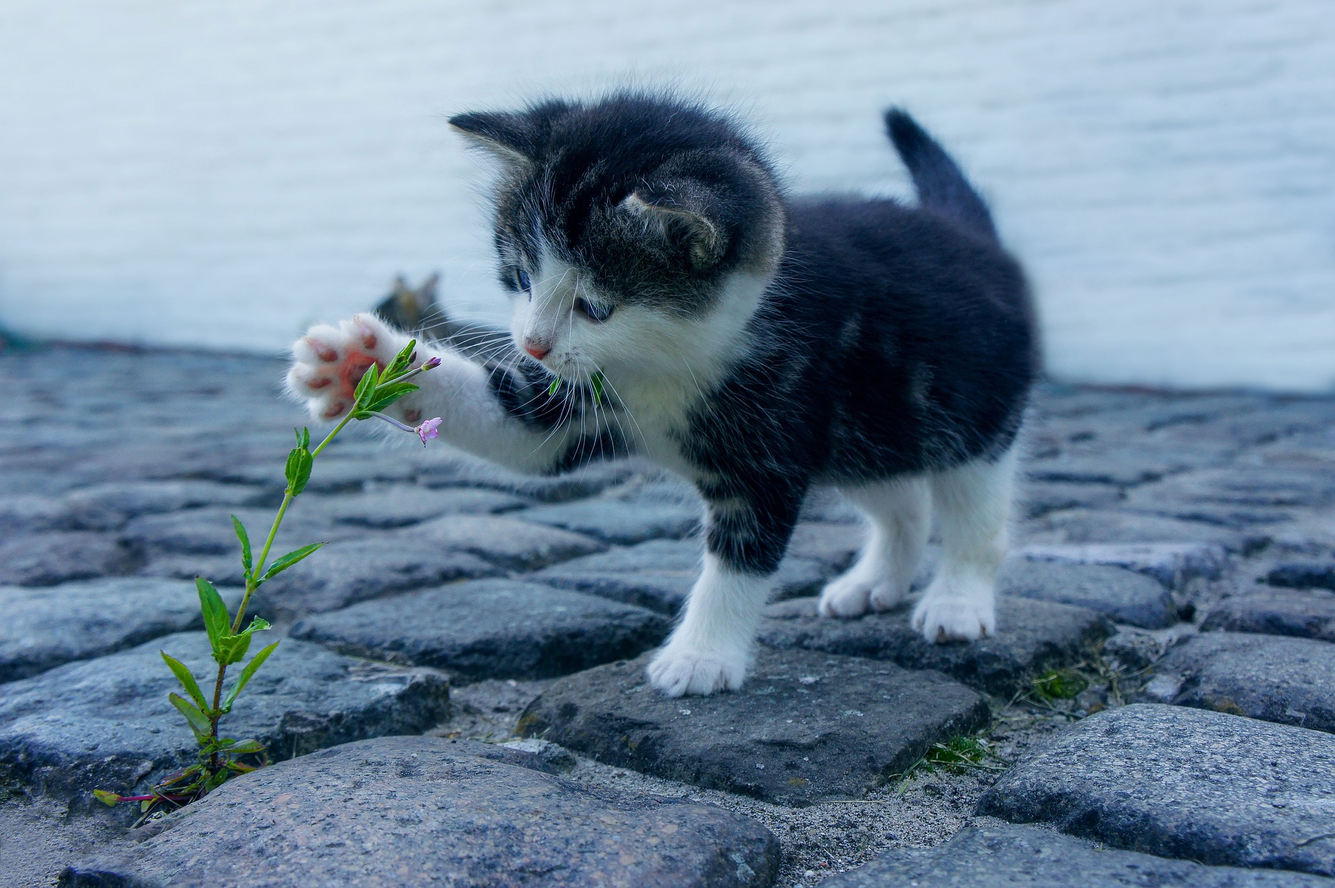
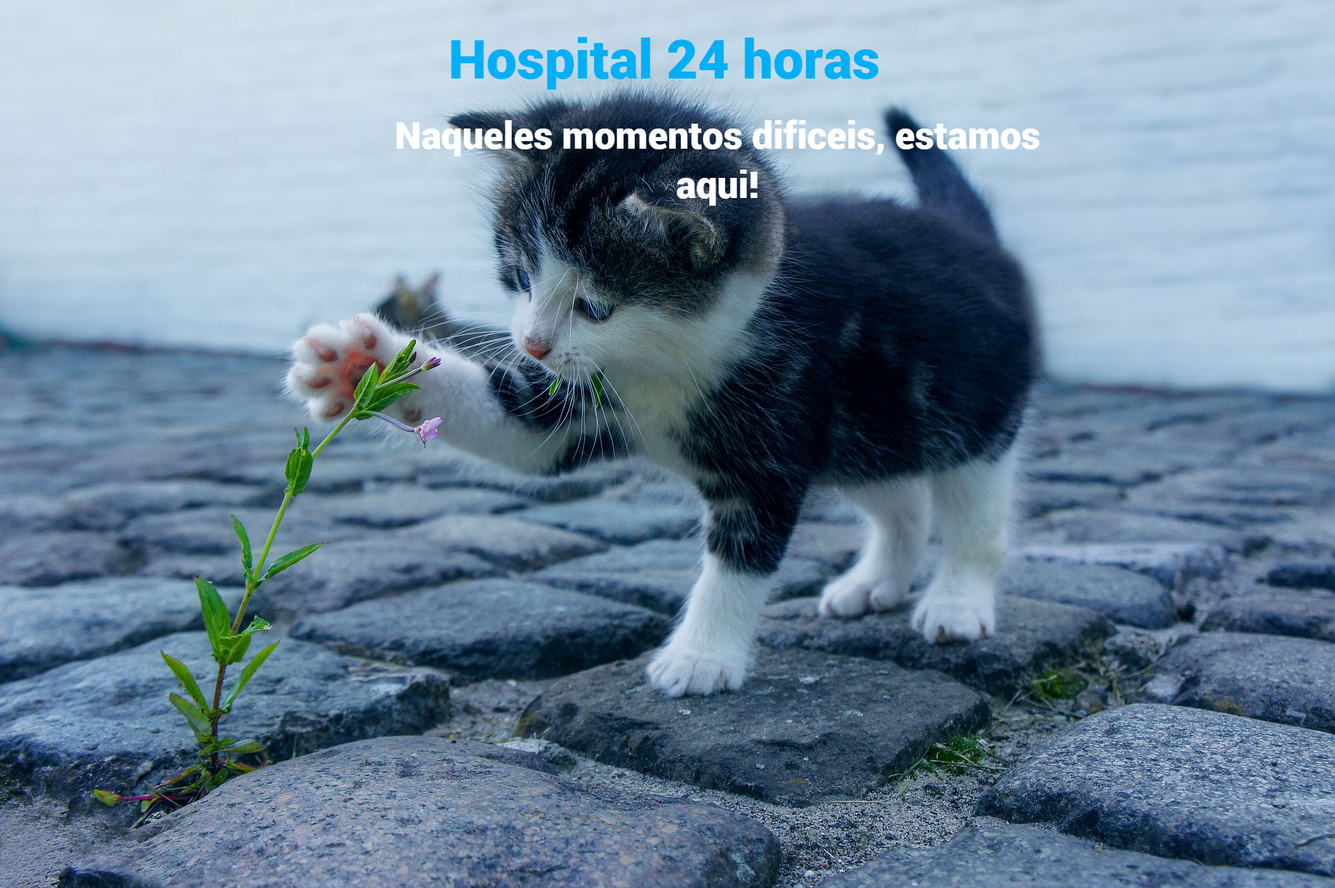
Estilizando projeto

Changed region(s): [[0.2812, 0.1221, 0.7812, 0.2441], [0.3125, 0.0305, 0.6562, 0.0915]]

diff --git a/index.html b/index.html
@@ -30,30 +30,34 @@
     <main id="principal">
         <hr>
         <section id="banner-container">
-            <div class="banner active">
-                <h2>Consultas e Vacinas</h2>
-                <p>
-                Acompanhamento veterinário para quem mais nos ama!!!
-                </p>
-            </div>
-            <div class="banner">
-                <h2>PetShop</h2>
-                <p>
-                O cuidado que eles merecem você encontra aqui!!!
-                </p>
-            </div>
-            <div class="banner">
-            
-                <h2>Pronto Atendimento</h2>
-                <p>
-                Para aqueles momentos dificeis, nossa equipe conta com profissionais compententes e carinhosos!!!
-                </p>
-            </div>
-                <div class="dots">
-                    <div class="dot active"></div>
-                    <div class="dot"></div>
-                    <div class="dot"></div>
+            <div class="slides-conj">
+                
+                <input type="radio" name="radio-btn" id="radio1">
+                <input type="radio" name="radio-btn" id="radio2">
+                <input type="radio" name="radio-btn" id="radio3">
+
+                <div class="banner first">
+                    <img src="./assets/img/dog.jpg" alt="">
+                    
                 </div>
+                <div class="banner">
+                  <img src="./assets/img/gatoFilhote.jpg" alt="">
+                </div>
+                <div class="banner">
+                    <img src="./assets/img/catDog.jpg
+                    " alt="">
+                </div>
+                    <div class="navbtn">
+                        <div class="auto-btn1"></div>
+                        <div class="auto-btn2"></div>
+                        <div class="auto-btn3"></div>
+                    </div>
+            </div>
+            <div class="manual-navbtn">
+                <label for="radio1" class="manual-btn"></label>
+                <label for="radio2" class="manual-btn"></label>
+                <label for="radio3" class="manual-btn"></label>
+            </div>
         </section>
         <section id="servicos-container">
             <div  class="servicos">
@@ -112,9 +116,9 @@
                 <h3>Fale Conosco</h3>
                 <p>Dúvidas ou sugetões? Utilize o formulário abaixo:</p>
                 <div class="form-cont">
-                <input type="text" name="" id="" placeholder="Nome">
-                <input type="email" name="" id="" placeholder="E-mail">
-                <textarea name="" id="" cols="30" rows="10" placeholder="Mensagem"></textarea>
+                <input type="text" name="" id="nome" placeholder="Nome" required>
+                <input type="email" name="" id="email" placeholder="E-mail" required>
+                <textarea name="" id="mensagem" cols="30" rows="10" placeholder="Mensagem" required></textarea>
                 <button type="submit">Enviar</button>
             </div>
             </form>

diff --git a/assets/css/style.css b/assets/css/style.css
@@ -52,51 +52,78 @@ main{
 }
 /*banner*/
 #banner-container{
-    background-image: url(../img/dog.jpg);
-    height: 88vh;
-    background-repeat: no-repeat;
-    background-size: cover;
+  width: 85%;
+  height: 79vh;
+  overflow: hidden;
+  margin: 0 auto;
    
 }
-.banner{
-    opacity: 0;
-    transition: 0.6s;
+.banner img{
+ width: 1100px;
+ 
+ 
+
+}
+.slides-conj{
+
+ display: flex;
+}
+.manual-navbtn{
+  position: absolute;
+  bottom: 40px;
+  width: 100%;
+  display: flex;
+  justify-content: center;
 }
 
+.manual-btn{
+  border: 2px solid var(--color-principal1);
+  padding: 5px;
+  border-radius: 10px;
+  cursor: pointer;
+  transition: 1s;
+}
+
+.manual-btn:not(:last-child){/*aplicar o efeito menos no último item*/
+  margin-right: 40px;
+}
+.manual-btn:hover{
+  background-color: var(--color-principal1);
+}
+#radio1:checked ~ .first{
+  margin-left: 0;
+}
+#radio2:checked ~ .first{
+  margin-right: -104%;
+  
+}
+#radio3:checked ~ .first{
+  margin-right: -205%;
+}
+
+
+
+
+.slides-conj input{
+  display: none;
+}
 .banner h2{
     color: var(--color-principal1);
     font-size: 4rem;
     margin-left: 1.3rem;
-    z-index: 2;
+   
+    
 }
 
 .banner p{
     font-size: 1.5rem;
     margin: 1.3rem 0 0 1.3rem;
-    width: 50%;
+    
+    
 }
 
-.banner.active {
-    opacity: 1;
-  } 
 
- .dots{
-        display: flex;
-        gap: 2rem;
-        position: absolute;
-        bottom: -1rem;
-        left: 3rem;
- }
- .dot {
-    width: 20px;
-    height: 20px;
-    background-color: var(--color-principal1);
-  }
-  
-  .dot.active {
-    background-color: var(--color-principal2);
-  }
-
+ 
   /*seções*/
   #servicos-container{
     display: flex;
@@ -256,4 +283,27 @@ button{
     border:none;
     font-size: 1.2rem;
     
+}
+
+.navbtn div{
+  border: 2px solid var(--color-principal1);
+  padding: 5px;
+  border-radius: 10px;
+  cursor: pointer;
+  transition: 1s;
+}
+
+.navbtn{
+  position: absolute;
+  width: 100%;
+  bottom: 40px;
+  display: flex;
+  justify-content: center;
+}
+
+.navbtn div:not(:last-child){/*aplicar o efeito menos no último item*/
+  margin-right: 40px;
+}
+.manual-btn:hover{
+  background-color: var(--color-principal1);
 }

diff --git a/assets/js/script.js b/assets/js/script.js
@@ -1,0 +1,2 @@
+
+  
